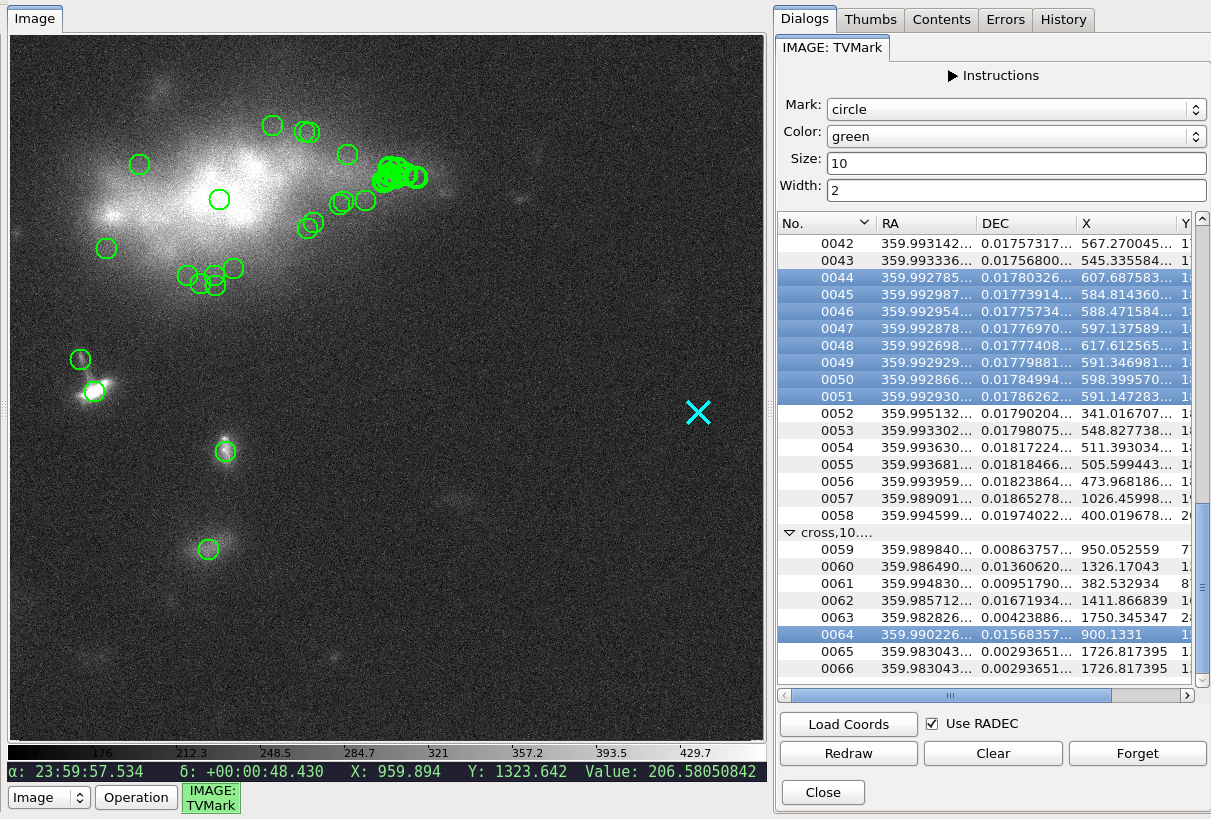
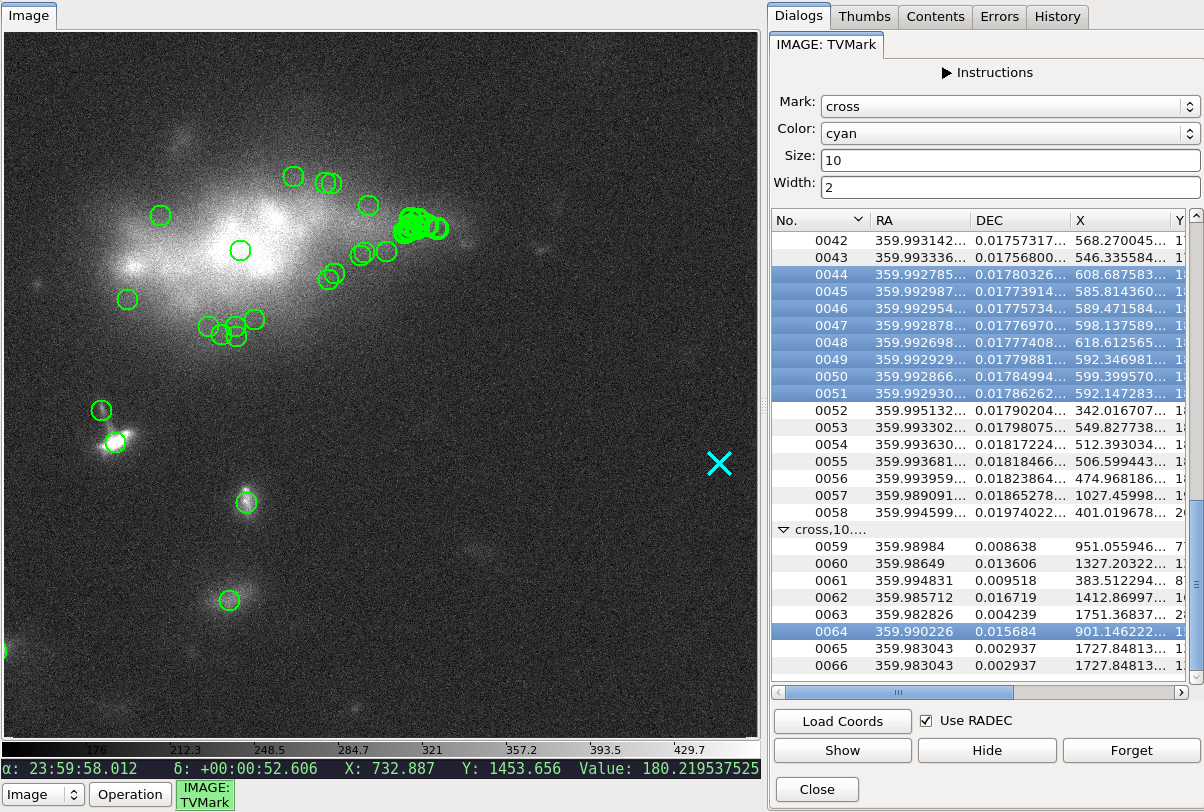
Changed verbiage on TVMark and TVMask buttons to be less confusing

Changed region(s): [[0.0, 0.0, 1.0, 1.0]]

diff --git a/stginga/plugins/TVMark.py b/stginga/plugins/TVMark.py
@@ -135,7 +135,7 @@ class TVMark(LocalPlugin):
         container.add_widget(treeview, stretch=1)
 
         captions = (('Load Coords', 'button', 'Use RADEC', 'checkbutton'),
-                    ('Redraw', 'button', 'Clear', 'button', 'Forget', 'button'))
+                    ('Show', 'button', 'Hide', 'button', 'Forget', 'button'))
         w, b = Widgets.build_info(captions)
         self.w.update(b)
 
@@ -146,11 +146,11 @@ class TVMark(LocalPlugin):
         b.use_radec.set_state(self.use_radec)
         b.use_radec.add_callback('activated', self.set_coordtype_cb)
 
-        b.redraw.set_tooltip('Redraw markings')
-        b.redraw.add_callback('activated', lambda w: self.redo())
+        b.show.set_tooltip('Show markings')
+        b.show.add_callback('activated', lambda w: self.redo())
 
-        b.clear.set_tooltip('Clear markings')
-        b.clear.add_callback('activated', lambda w: self.clear_marking())
+        b.hide.set_tooltip('Hide markings')
+        b.hide.add_callback('activated', lambda w: self.clear_marking())
 
         b.forget.set_tooltip('Forget markings')
         b.forget.add_callback('activated', lambda w: self.forget_coords())
@@ -179,7 +179,7 @@ class TVMark(LocalPlugin):
     def instructions(self):
         self.tw.set_text("""Set mark parameters. Then, load coordinates file to mark them on image with the specified marking. To add different kind of marking, change the mark parameters and load another file.
 
-Press "Clear" to clear all markings (does not clear memory). Press "Redraw" to replot them. Press "Forget" to forget all markings in memory.
+Press "Hide" to clear all markings (does not clear memory). Press "Show" to replot them. Press "Forget" to forget all markings in memory.
 
 """)
 

diff --git a/stginga/plugins/TVMask.py b/stginga/plugins/TVMask.py
@@ -113,18 +113,18 @@ class TVMask(LocalPlugin):
         container.add_widget(treeview, stretch=1)
 
         captions = (('Load Mask', 'button'),
-                    ('Redraw', 'button', 'Clear', 'button', 'Forget', 'button'))
+                    ('Show', 'button', 'Hide', 'button', 'Forget', 'button'))
         w, b = Widgets.build_info(captions)
         self.w.update(b)
 
         b.load_mask.set_tooltip('Load mask image')
         b.load_mask.add_callback('activated', lambda w: self.load_mask_cb())
 
-        b.redraw.set_tooltip('Redraw masks')
-        b.redraw.add_callback('activated', lambda w: self.redo())
+        b.show.set_tooltip('Show masks')
+        b.show.add_callback('activated', lambda w: self.redo())
 
-        b.clear.set_tooltip('Clear masks')
-        b.clear.add_callback('activated', lambda w: self.clear_mask())
+        b.hide.set_tooltip('Hide masks')
+        b.hide.add_callback('activated', lambda w: self.clear_mask())
 
         b.forget.set_tooltip('Forget masks')
         b.forget.add_callback('activated', lambda w: self.forget_masks())
@@ -153,7 +153,7 @@ class TVMask(LocalPlugin):
     def instructions(self):
         self.tw.set_text("""Set mask parameters. Then, load mask file to display them on image with the specified parameters. To add different kind of mask, change the mask parameters and load another file.
 
-Press "Clear" to clear all masks (does not clear memory). Press "Redraw" to replot them. Press "Forget" to forget all masks in memory.
+Press "Hide" to clear all masks (does not clear memory). Press "Show" to replot them. Press "Forget" to forget all masks in memory.
 
 """)
 

diff --git a/docs/source/plugins_manual/tvmark.rst b/docs/source/plugins_manual/tvmark.rst
@@ -43,15 +43,15 @@ You can also highlight all the markings within a region both on the image
 and the table listing by drawing a rectangle on the image using the right mouse
 button while this plugin is active.
 
-Pressing the "Clear" button will clear the markings but does not clear the
-plugin's memory; That is, when you press "Redraw", the same markings will
+Pressing the "Hide" button will hide the markings but does not clear the
+plugin's memory; That is, when you press "Show", the same markings will
 reappear on the same image. However, pressing "Forget" will clear the markings
 both from display and memory; That is, you will need to reload your file(s) to
 recreate the markings.
 
 To redraw the same positions with different marking parameters, press "Forget"
 and repeat the steps above, as necessary. However, if you simply wish to change
-the line width (thickness), pressing "Clear" and then "Redraw" after you entered
+the line width (thickness), pressing "Hide" and then "Show" after you entered
 the new width value will suffice.
 
 If images of very different pointings/dimensions are displayed in the same

diff --git a/docs/source/plugins_manual/tvmask.rst b/docs/source/plugins_manual/tvmask.rst
@@ -29,8 +29,8 @@ You can also highlight all the masks within a region both on the image
 and the table listing by drawing a rectangle on the image using the right mouse
 button while this plugin is active.
 
-Pressing the "Clear" button will clear the masks but does not clear the
-plugin's memory; That is, when you press "Redraw", the same masks will
+Pressing the "Hide" button will hide the masks but does not clear the
+plugin's memory; That is, when you press "Show", the same masks will
 reappear on the same image. However, pressing "Forget" will clear the masks
 both from display and memory; That is, you will need to reload your file(s) to
 recreate the masks.
